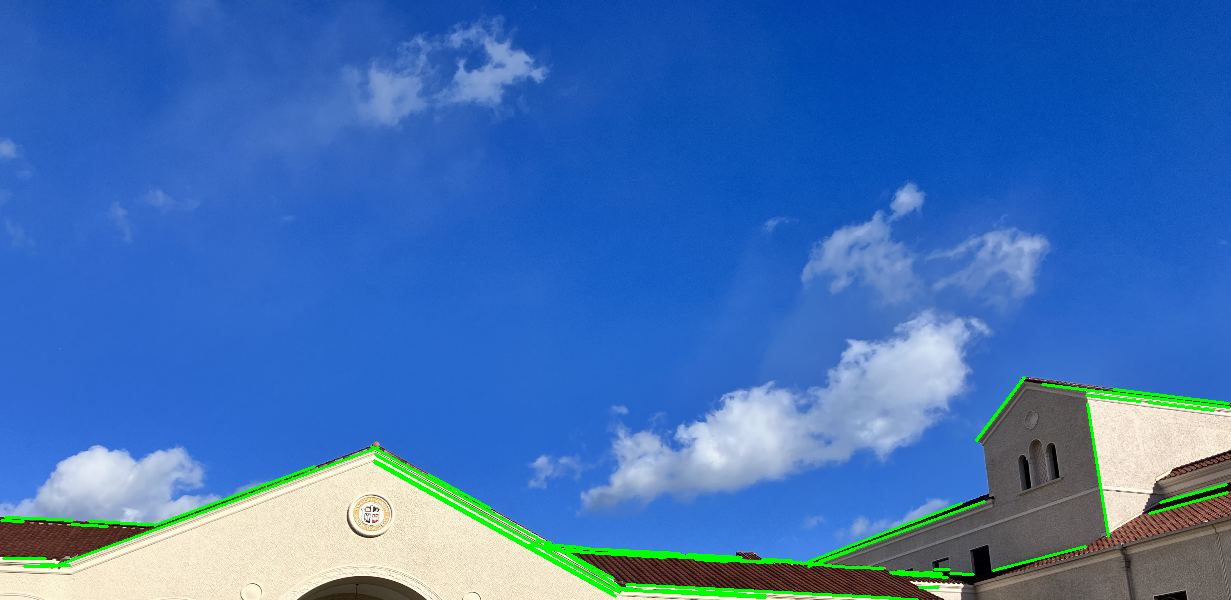
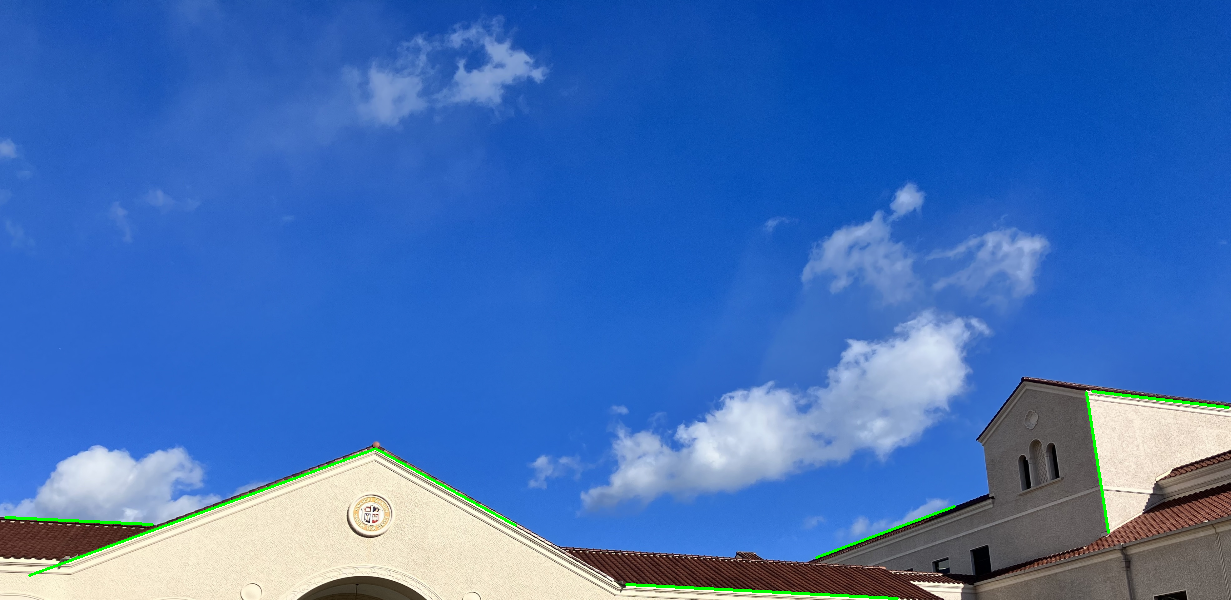
create new LSD tester

diff --git a/sandbox/src/withLSD.py b/sandbox/src/withLSD.py
@@ -1,4 +1,5 @@
 import itertools
+from types import NoneType
 import cv2
 import numpy as np
 from cv2.typing import MatLike
@@ -6,8 +7,6 @@ from numpy.linalg import norm
 from math import pi
 from sys import argv
 import time
-
-import matplotlib.pyplot as plt
 
 from utility import *
 
@@ -39,15 +38,15 @@ def draw_current_postprocess(
     return cv2.waitKey(waiting_interval)
 
 def preprocess(img:MatLike, alpha:float) -> MatLike:
-    N = 3
-    d = 8
+    N = 6
+    d = 6
     base_param = 1/2
     sigma_Color = lerp(alpha, 90, base_param)
     sigma_Space = lerp(alpha, 90, base_param)
 
     for _ in range(N):
         img = cv2.bilateralFilter(img, d, sigmaColor=sigma_Color, sigmaSpace=sigma_Space)
-
+    cv2.imwrite("./sandbox/out/lsd/inprocess.png", img)
     return img
 
 def extract_lines_by_hough(processed_image: MatLike, alpha:float, beta:float) -> list[Line]:
@@ -69,12 +68,14 @@ def extract_lines_by_hough(processed_image: MatLike, alpha:float, beta:float) ->
     houghline_minline_gap = after_height * minLineLength_coef
     houghline_maxline_gap = after_height * maxLineGap_coef
     lines = cv2.HoughLinesP(edge_img, 1, np.pi/180, houghline_threshold, None, houghline_minline_gap, houghline_maxline_gap)
+    if (type(lines) == NoneType): return []
     return MatLike_to_list_of_points(lines)
 
 def extract_lines_by_lsd(processed_image: MatLike) -> list[Line]:
     lsd = cv2.createLineSegmentDetector()
     img_gray = cv2.cvtColor(processed_image, cv2.COLOR_BGR2GRAY)
     lines, width, prec, nfa = lsd.detect(img_gray)
+    if (type(lines) == NoneType): return []
     return MatLike_to_list_of_points(lines)
 
 def postprocess(edge_img: MatLike, lines_in_list:list[Line],  gamma:float) -> list[Line]:
@@ -98,7 +99,7 @@ def postprocess(edge_img: MatLike, lines_in_list:list[Line],  gamma:float) -> li
                 showing_frame_interval = 1 if (showing_frame_interval == 100) else 100
                 # キーを離すまで進めない
                 while (cv2.waitKey(1) != -1): pass
-            
+        
             
         # すでに結合されていた場合は無視
         if not lines_used[i] or not lines_used[j]:
@@ -228,9 +229,9 @@ if __name__ == '__main__':
     file_base_name = file_name.split(".")[0]
     input_target = cv2.imread("App/assets/test/" + file_name)
     if True:
-        alpha = 0.5
+        alpha = 1
         beta = 0.9
-        gamma = 0
+        gamma = 0.5
         tester_extract_lines(input_target.copy(), file_base_name + "-hough", lambda img: process_hough(img, alpha, beta, gamma))
         tester_extract_lines(input_target.copy(), file_base_name + "-lsd", lambda img: process_lsd(img, alpha, gamma))
     else:

diff --git a/sandbox/src/LSD_tester.py b/sandbox/src/LSD_tester.py
@@ -1,0 +1,87 @@
+import itertools
+from types import NoneType
+import cv2
+import numpy as np
+from cv2.typing import MatLike
+from numpy.linalg import norm
+from math import pi
+from sys import argv
+import time
+
+from utility import *
+
+path = "./sandbox/out/lsd/"
+
+
+def extract_lines_by_lsd(processed_image: MatLike) -> tuple[list[Line], list[float]]:
+    lsd = cv2.createLineSegmentDetector()
+    img_gray = cv2.cvtColor(processed_image, cv2.COLOR_BGR2GRAY)
+    lines, width, prec, nfa = lsd.detect(img_gray)
+    if (type(lines) == NoneType): return [], []
+    return MatLike_to_list_of_points(lines), MatLike_to_list_of_floats(prec)
+
+
+def portray_result(img:MatLike, lines: list[Line], params:list[float], max_value:float):
+    drawn_img = img.copy()
+    for (x1,y1,x2,y2), param  in zip(lines, params):
+        print(param)
+        cv2.line(drawn_img, (x1, y1), (x2, y2), (0, min(int(255 * (param / max_value)), 255), 0), 2)
+    return drawn_img
+    
+
+
+def process_lsd(
+    img:MatLike,
+    alpha:float,
+    gamma:float
+):
+    assert 0 <= alpha <= 1
+    assert 0 <= gamma <= 1
+
+    lines_in_list = extract_lines_by_lsd(img)
+
+    return lines_in_list
+
+# TODO: パラメータの説明を加えよう
+def tester_extract_lines(
+        img:MatLike,
+        file_base_name:str
+    ):
+    """
+    パラメータ
+    - `alpha` 対象物体の濃さ
+    - `beta` 得られる線分の微細さ
+    - `gamma` 線分の集約度合い
+    """
+    height = img.shape[0]
+    after_height = 600
+    f = after_height / height
+    # 下げすぎると木の障害物などに大きく引っ張られやすくなる
+    scaled_img = cv2.resize(img, None, fx=f, fy=f)
+
+    result_lines, param = extract_lines_by_lsd(img)
+
+    drawn_img = portray_result(scaled_img, result_lines, param, 0.25)
+    cv2.imwrite(path + f"out-{file_base_name}.png", drawn_img)
+
+
+
+if __name__ == '__main__':
+    assert(len(argv) == 2)
+
+    file_name = argv[1]
+    file_base_name = file_name.split(".")[0]
+    input_target = cv2.imread("App/assets/test/" + file_name)
+    if True:
+        tester_extract_lines(input_target.copy(), file_base_name + "-lsd-nfa")
+    else:
+        # FIXME: このデータの時おかしい
+        first = [
+            (200, 139, 10, 1),
+            (160, 106, 305, 204)
+        ]
+        second = postprocess(input_target, first, gamma=0.5)
+        cv2.imshow("p", portray_result(input_target, first, (0, 255, 0)))
+        cv2.waitKey(0)
+        cv2.imshow("p", portray_result(input_target, second, (0, 0, 255)))
+        cv2.waitKey(0)

diff --git a/sandbox/src/utility.py b/sandbox/src/utility.py
@@ -23,6 +23,9 @@ def in_points(line:Line):
         [line[2], line[3]] if line[0] < line[2] else [line[0], line[1]]
     )
 
+def MatLike_to_list_of_floats(matlike:MatLike) -> list[float]:
+    return list(map(float, matlike[:, 0]))
+
 def MatLike_to_list_of_points(lines:MatLike) -> list[Line]:
     return list(zip(
         map(int, lines[:, 0, 0]),
